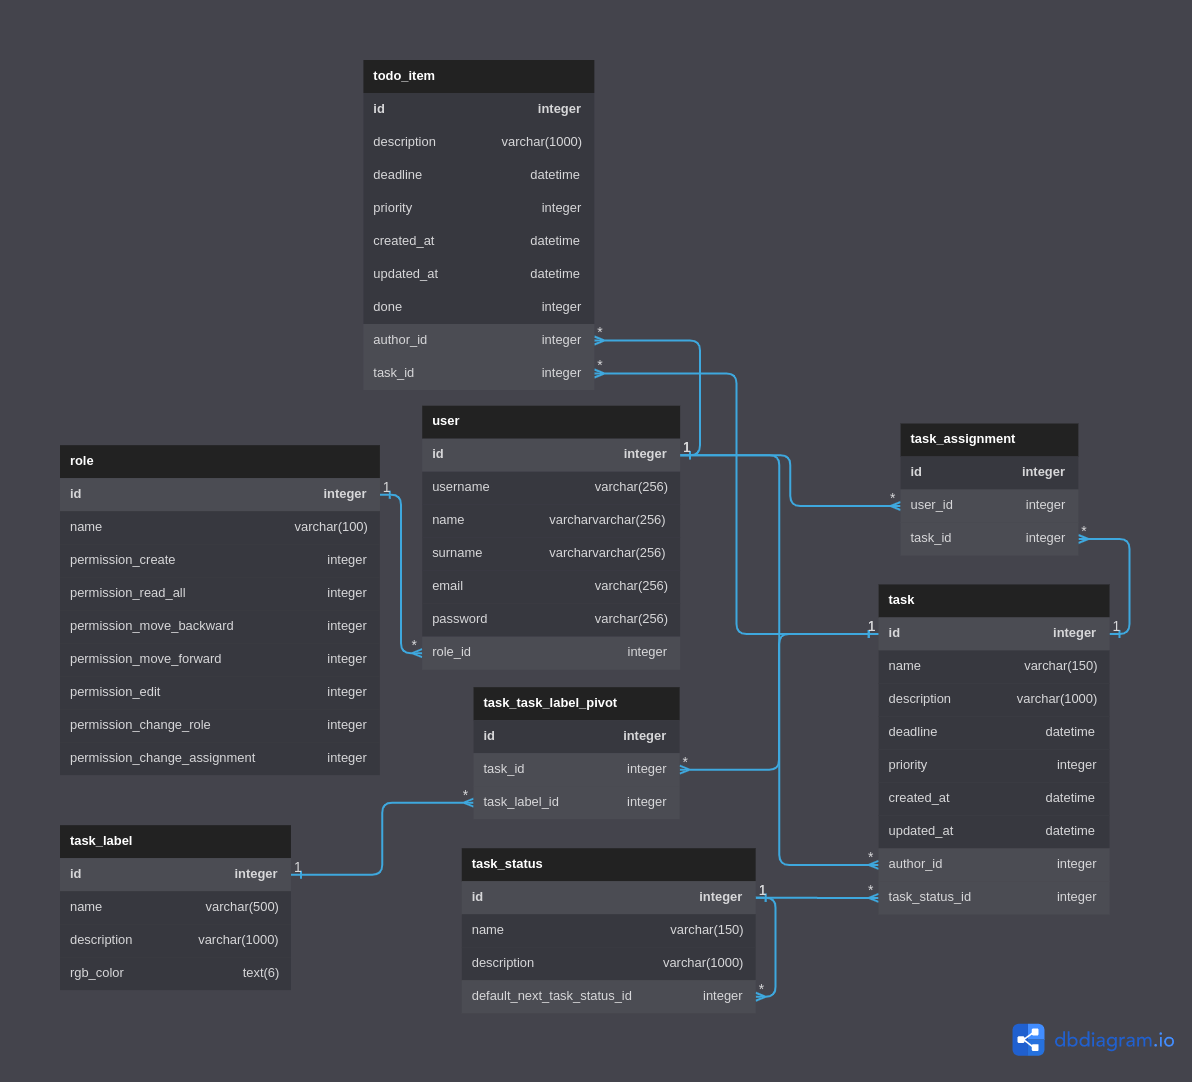
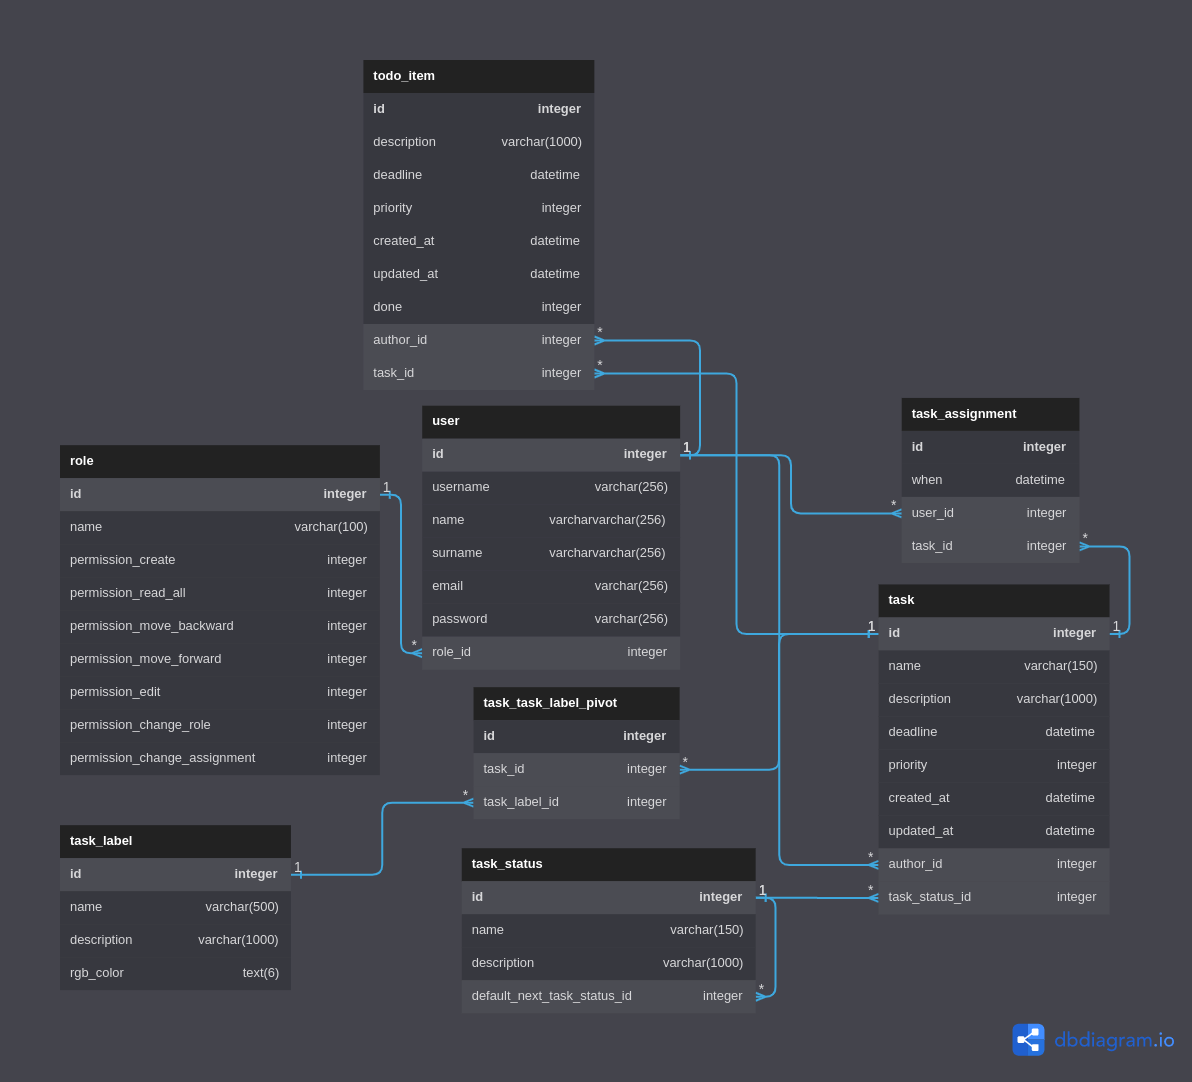
Updated assignment

Changed region(s): [[0.6518, 0.366, 0.9622, 0.5185]]

diff --git a/frontend/src/app/model/entity/task-assignment.model.ts b/frontend/src/app/model/entity/task-assignment.model.ts
@@ -1,5 +1,6 @@
 export interface TaskAssignmentModel {
   id: number;
+  when: Date;
 
   user_id: number;
   task_id: number;

diff --git a/lib/db/component.py b/lib/db/component.py
@@ -41,11 +41,15 @@ class Field(ToSqlInterface):
 
     @classmethod
     def created_at_field(cls) -> 'Field':
-        return cls(name="created_at", type="DATETIME", default="strftime('%Y-%m-%d %H:%M:%S', 'now')")
+        return Field.datetime_now("created_at")
 
     @classmethod
     def updated_at_field(cls) -> 'Field':
-        return cls(name="updated_at", type="DATETIME", default="strftime('%Y-%m-%d %H:%M:%S', 'now')")
+        return Field.datetime_now("updated_at")
+
+    @classmethod
+    def datetime_now(cls, name: str) -> 'Field':
+        return cls(name=name, type="DATETIME", default="strftime('%Y-%m-%d %H:%M:%S', 'now')")
 
     @classmethod
     def nullable_date_with_now_check_field(cls, name: str, default: str | None = 'NULL') -> 'Field':
@@ -109,10 +113,11 @@ class Table(ToSqlInterface):
         return self.fk_constraints is not None and len(self.fk_constraints) > 0
 
     @classmethod
-    def pivot(cls, table_name: str, tables: List[str]) -> 'Table':
-        fields = [
-            Field.id_field()
-        ]
+    def pivot(cls, table_name: str, tables: List[str], other_fields: List[Field] | None = None) -> 'Table':
+        fields = [Field.id_field()]
+
+        if other_fields is not None:
+            fields.extend(other_fields)
 
         fk_constraints = []
 

diff --git a/lib/app/service/dashboard.py b/lib/app/service/dashboard.py
@@ -43,6 +43,6 @@ class DashboardService:
                                     default_task_status_id=self.__task_status_manager.doing_task_status_id,
                                     tasks=tasks)
 
-                Logger.log_info(msg=f"dashboard get {len(dm.tasks)} task(s)", is_verbose=self.verbose)  # too computationally demanding
+                Logger.log_info(msg=f"dashboard get {len(dm.tasks)} task(s)", is_verbose=self.verbose)
 
                 return dm

diff --git a/lib/db/db.py b/lib/db/db.py
@@ -216,6 +216,8 @@ class DBManager(TableNamesMixin, BaseTaskStatusIdMixin):
             self.task_assignment_table_name: Table.pivot(self.task_assignment_table_name, tables=[
                 self.user_table_name,
                 self.task_table_name
+            ], other_fields=[
+                Field.datetime_now("when")
             ]),
 
             self.todo_item_table_name: Table(self.todo_item_table_name, [
